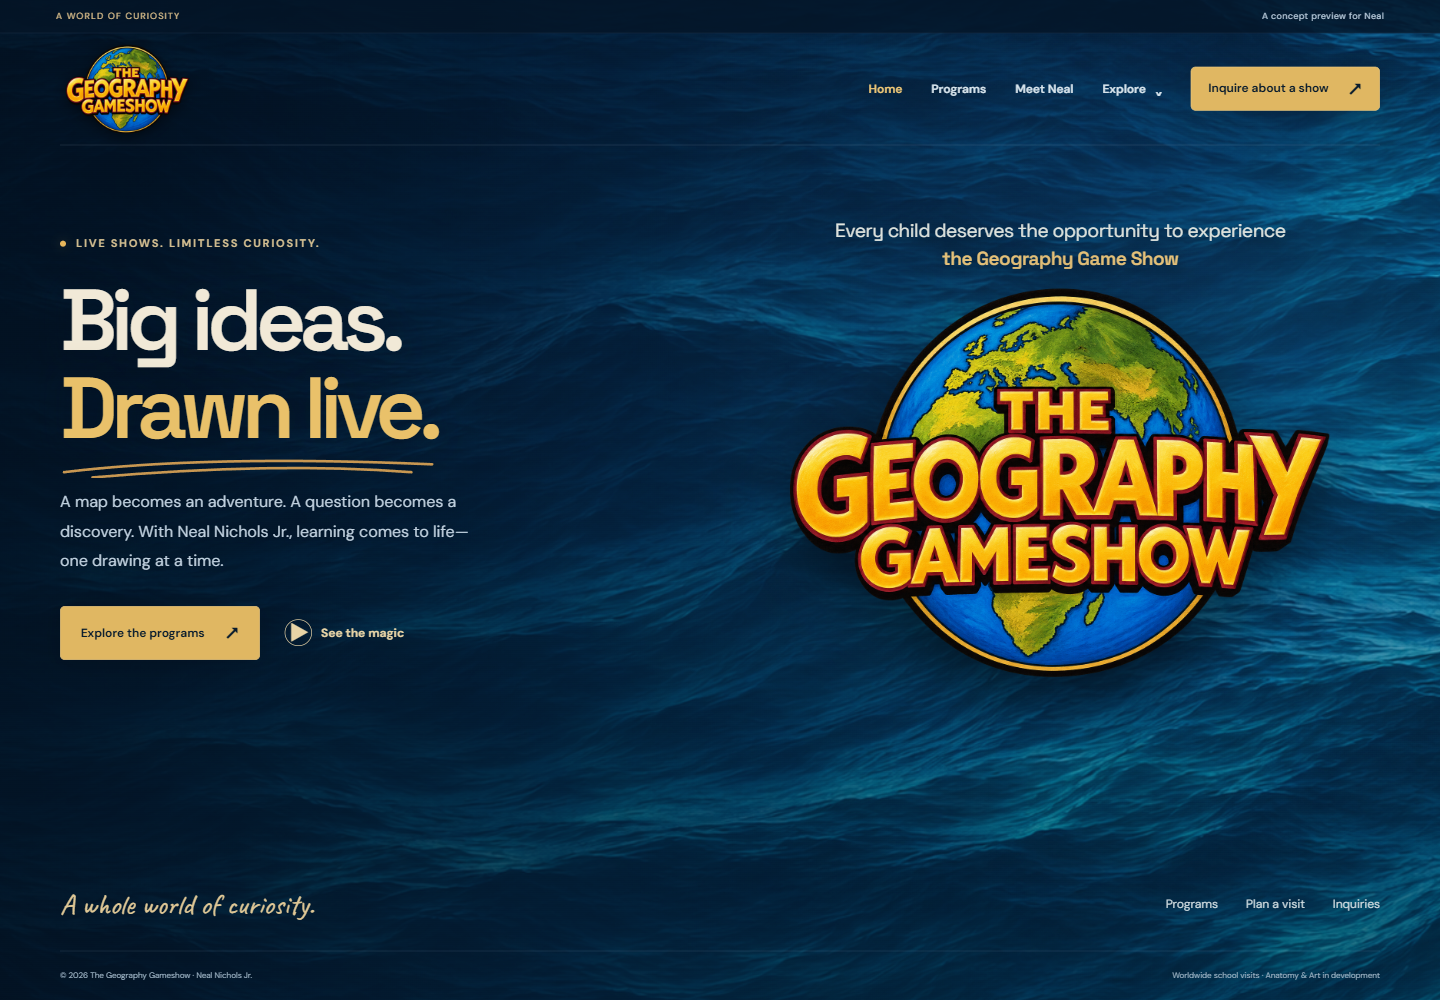
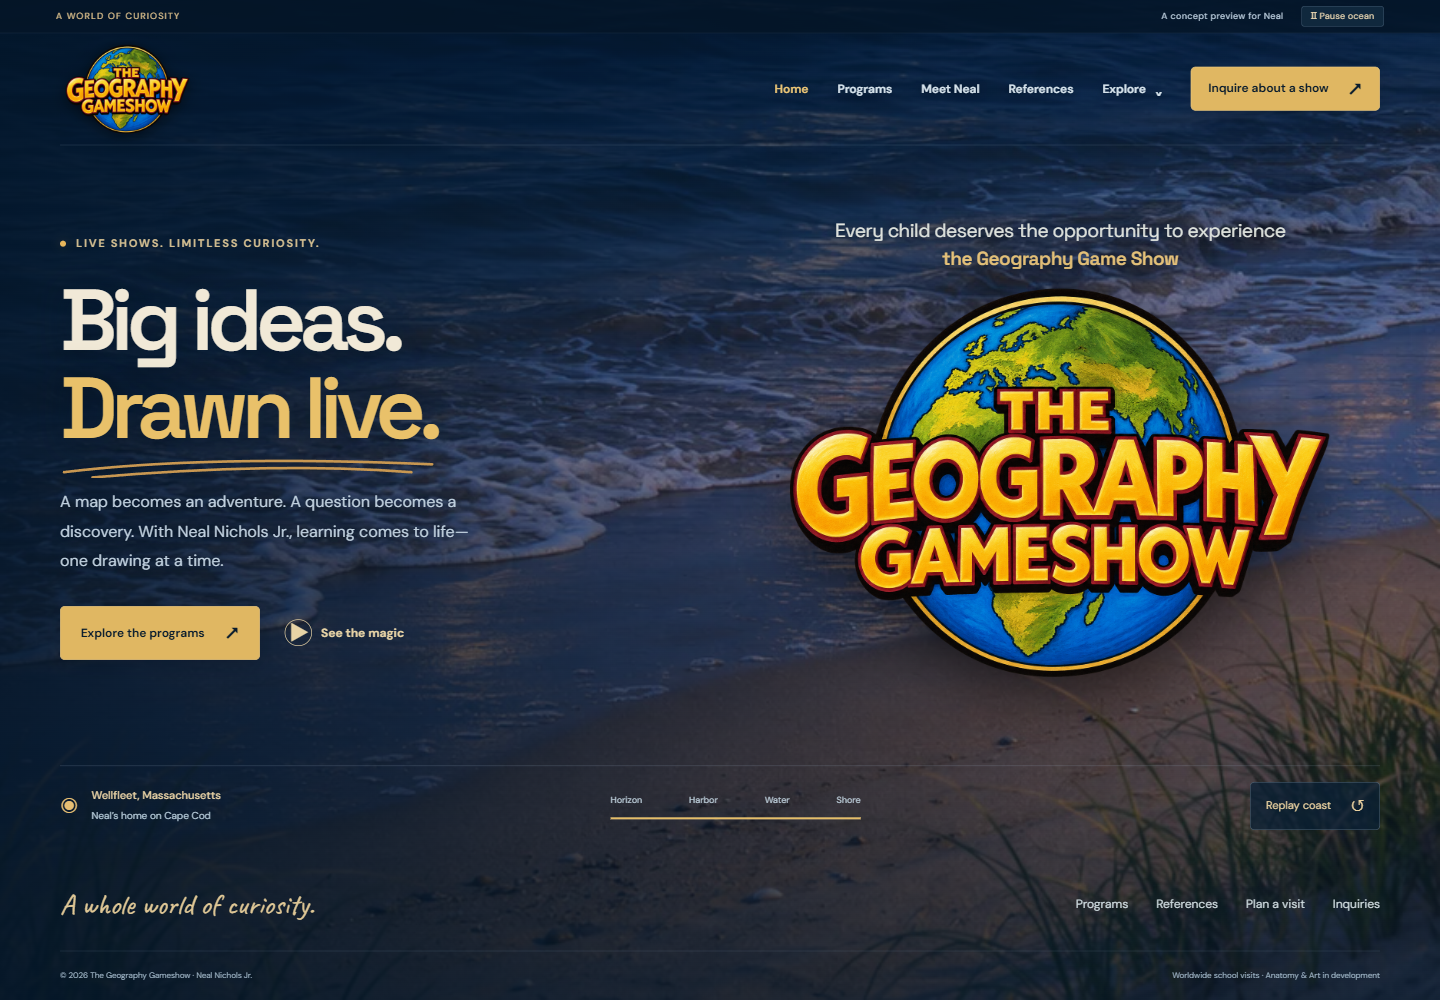
Add automatic Wellfleet horizon-to-beach homepage opening

diff --git a/coast.css b/coast.css
@@ -1,0 +1,67 @@
+/* A continuous downward camera move through one Wellfleet-inspired panorama. */
+.coastal-home { --pan-height: max(200vw, 240svh); position: relative; }
+.coastal-backdrop { position: fixed; inset: 0; z-index: -1; overflow: hidden; pointer-events: none; background: #082443; opacity: 0; transition: opacity .8s; }
+.coast-ready .coastal-backdrop { opacity: 1; }
+.coastal-pan { position: absolute; top: 0; left: 0; display: block; width: 100%; max-width: none; height: var(--pan-height); object-fit: cover; object-position: center; transform: translateY(0); will-change: transform; }
+.coast-ready:not(.coast-done) .coastal-pan { animation: wellfleet-arrival 22s cubic-bezier(.42, 0, .32, 1) both; }
+@keyframes wellfleet-arrival {
+  0%, 6% { transform: translateY(0); }
+  28%, 40% { transform: translateY(calc((100svh - var(--pan-height)) * .19)); }
+  69%, 75% { transform: translateY(calc((100svh - var(--pan-height)) * .62)); }
+  100% { transform: translateY(calc(100svh - var(--pan-height))); }
+}
+.coast-done .coastal-pan { transform: translateY(calc(100svh - var(--pan-height))); will-change: auto; }
+.coastal-shade { position: absolute; inset: 0; background: linear-gradient(180deg, #0316299e 0%, #03162900 30%, #03162900 55%, #031629b0 100%); }
+.coast-done .coastal-shade { background: linear-gradient(90deg, #031629da 0%, #0316297d 43%, #0316294d 75%), linear-gradient(180deg, #03162985, transparent 45%, #031629b0); }
+.coastal-shell .site-header { background: #04172d1a; }
+.coastal-shell .site-header nav { text-shadow: 0 2px 8px #001021; }
+.coastal-shell .site-header .button { text-shadow: none; }
+.coastal-content { opacity: 0; pointer-events: none; transition: opacity .8s; }
+.coast-done .coastal-content, .coastal-content:focus-within { opacity: 1; pointer-events: auto; }
+.coastal-content:focus-within { transition: none; }
+.coastal-welcome { position: absolute; inset: auto 0 50px; padding-bottom: 60px; pointer-events: none; transition: opacity .5s; }
+.coastal-welcome .eyebrow { color: #e4cf9d; font-size: 9px; text-shadow: 0 2px 12px #041426; }
+.coastal-title { margin-top: 17px; color: #f3e8d2; font-family: var(--heading); font-size: clamp(36px, 4.3vw, 62px); font-weight: 500; letter-spacing: -.05em; line-height: 1.07; text-shadow: 0 4px 25px #031629c0; }
+.coastal-title em { font-family: Georgia, serif; font-weight: 400; color: #ecd4a0; }
+.coast-done .coastal-welcome { opacity: 0; visibility: hidden; }
+.coastal-controls { position: relative; display: flex; justify-content: space-between; align-items: center; gap: 24px; padding: 16px 0 20px; border-top: 1px solid #a9bfd63d; }
+.coastal-place { display: flex; align-items: center; gap: 13px; }
+.coastal-marker { color: #e7bf73; font-size: 22px; }
+.coastal-place strong { display: block; font-size: 11px; color: #e8d2a5; font-weight: 500; }
+.coastal-place div > span { display: block; font-size: 10px; color: #b5cad8; margin-top: 3px; }
+.coastal-progress { width: 250px; }
+.coastal-progress > div { display: flex; justify-content: space-between; color: #bdceda; font-size: 9px; }
+.coastal-progress i { height: 2px; display: block; background: #9bb9cb42; margin-top: 10px; overflow: hidden; }
+.coastal-progress b { display: block; width: 100%; height: 100%; background: #e5bd68; transform: scaleX(0); transform-origin: left; }
+.coast-ready:not(.coast-done) .coastal-progress b { animation: coastal-progress 22s linear both; }
+@keyframes coastal-progress { to { transform: scaleX(1); } }
+.coast-done .coastal-progress b { transform: scaleX(1); }
+.coastal-action { min-height: 44px; display: flex; align-items: center; gap: 20px; border: 1px solid #9cb4c45e; border-radius: 4px; padding: 10px 15px; background: #071e35b8; color: #ebd2a0; font-size: 11px; white-space: nowrap; }
+.coastal-action > span { font-size: 17px; }
+.coastal-action:hover { border-color: #e7bf73; background: #153b59; }
+.motion-paused .coastal-home .coastal-pan, .motion-paused .coastal-home .coastal-progress b { animation-play-state: paused; }
+.coast-failed .coastal-backdrop, .coast-failed .coastal-welcome, .coast-failed .coastal-controls { display: none; }
+.coast-failed .coastal-content { opacity: 1; pointer-events: auto; }
+@media (max-width: 900px) {
+  .coastal-progress { width: 190px; }
+  .coastal-welcome { padding-bottom: 75px; }
+}
+@media (max-width: 680px) {
+  .coastal-home:not(.coast-done) .coastal-content { height: calc(100svh - 250px); min-height: 450px; overflow: hidden; }
+  .coastal-controls { gap: 12px; padding-block: 14px; }
+  .coastal-place { gap: 8px; }
+  .coastal-place strong { font-size: 10px; }
+  .coastal-place div > span { font-size: 9px; }
+  .coastal-progress { display: none; }
+  .coastal-action { padding-inline: 11px; font-size: 10px; gap: 12px; }
+  .coastal-welcome { padding-bottom: 65px; }
+  .coastal-title { font-size: clamp(37px, 9vw, 49px); }
+  .coastal-welcome .eyebrow { font-size: 8px; }
+}
+@media (prefers-reduced-motion: reduce) {
+  .coastal-home .coastal-pan { animation: none !important; transform: translateY(calc((100svh - var(--pan-height)) * .19)); will-change: auto; }
+  .coastal-home .coastal-content { opacity: 1; pointer-events: auto; height: auto !important; min-height: 0 !important; overflow: visible !important; transition: none; }
+  .coastal-welcome, .coastal-controls { display: none; }
+  .coastal-shade { background: linear-gradient(90deg, #031629da, #03162990 60%, #03162975); }
+  .coastal-backdrop { transition: none; }
+}

diff --git a/tests/site.spec.js b/tests/site.spec.js
@@ -287,3 +287,49 @@ test('ocean motion runs, pauses, resumes, and respects reduced motion', async ({
   await expect(ocean).toHaveCSS('animation-name', 'none');
   await expect(page.locator('.motion-toggle')).toBeHidden();
 });
+
+test('coastal opening pans, pauses, skips, replays, and remembers completion', async ({ page }) => {
+  await page.emulateMedia({ reducedMotion: 'no-preference' });
+  const coast = page.locator('.coastal-home');
+  const pan = page.locator('.coastal-pan');
+  await expect(coast).toHaveClass(/coast-ready/);
+  await expect(pan).toHaveCSS('animation-name', 'wellfleet-arrival');
+  const start = await pan.evaluate(el => getComputedStyle(el).transform);
+  await pan.evaluate(el => { el.getAnimations()[0].currentTime = 7500; });
+  await expect.poll(() => pan.evaluate(el => getComputedStyle(el).transform)).not.toBe(start);
+
+  await page.getByRole('button', { name: 'Pause ocean animation' }).click();
+  await expect(pan).toHaveCSS('animation-play-state', 'paused');
+  const pausedTime = await pan.evaluate(el => el.getAnimations()[0].currentTime);
+  await page.waitForTimeout(150);
+  const afterPause = await pan.evaluate(el => el.getAnimations()[0].currentTime);
+  expect(Math.abs(afterPause - pausedTime)).toBeLessThan(40);
+  await page.getByRole('button', { name: 'Resume ocean animation' }).click();
+  await expect(pan).toHaveCSS('animation-play-state', 'running');
+
+  await page.getByRole('button', { name: 'Skip intro' }).click();
+  await expect(coast).toHaveClass(/coast-done/);
+  await expect(page.locator('.coastal-content')).toHaveCSS('opacity', '1');
+  await expect(page.getByRole('link', { name: /Explore the programs/ })).toBeVisible();
+  expect(await page.evaluate(() => sessionStorage.getItem('wellfleet-arrival-seen'))).toBe('true');
+  await page.goto('programs.html');
+  await expect(page.locator('.coastal-pan')).toHaveCount(0);
+  await page.goto('index.html');
+  await expect(coast).toHaveClass(/coast-done/);
+  await page.getByRole('button', { name: 'Replay coast' }).click();
+  await expect(coast).not.toHaveClass(/coast-done/);
+  await expect(pan).toHaveCSS('animation-name', 'wellfleet-arrival');
+  await pan.evaluate(el => el.getAnimations()[0].finish());
+  await expect(coast).toHaveClass(/coast-done/);
+  await expect(page.locator('.coastal-content')).toHaveCSS('opacity', '1');
+});
+
+test('coastal opening respects reduced motion and keeps keyboard access immediate', async ({ page }) => {
+  await expect(page.locator('.coastal-pan')).toHaveCSS('animation-name', 'none');
+  await expect(page.locator('.coastal-content')).toHaveCSS('opacity', '1');
+  await expect(page.locator('.coastal-controls')).toBeHidden();
+  await page.emulateMedia({ reducedMotion: 'no-preference' });
+  await page.getByRole('link', { name: /Explore the programs/ }).focus();
+  await expect(page.locator('.coastal-home')).toHaveClass(/coast-done/);
+  await expect(page.locator('.coastal-content')).toHaveCSS('opacity', '1');
+});

diff --git a/index.html b/index.html
@@ -12,6 +12,7 @@
     <link data-trunk rel="css" href="style.css" />
     <link data-trunk rel="css" href="ocean.css" />
     <link data-trunk rel="css" href="pages.css" />
+    <link data-trunk rel="css" href="coast.css" />
     <link data-trunk rel="copy-dir" href="public" />
     <link rel="icon" type="image/svg+xml" href="public/favicon.svg" />
     <link data-trunk rel="rust" data-wasm-opt="z" />

diff --git a/src/coast.rs b/src/coast.rs
@@ -1,0 +1,54 @@
+use leptos::prelude::*;
+
+fn remember_arrival() {
+    if let Some(storage) = web_sys::window().and_then(|w| w.session_storage().ok().flatten()) {
+        let _ = storage.set_item("wellfleet-arrival-seen", "true");
+    }
+}
+
+#[component]
+pub fn CoastalHome(children: Children) -> impl IntoView {
+    let seen = web_sys::window()
+        .and_then(|w| w.session_storage().ok().flatten())
+        .and_then(|s| s.get_item("wellfleet-arrival-seen").ok().flatten())
+        .is_some_and(|value| value == "true");
+    let ready = RwSignal::new(false);
+    let finished = RwSignal::new(seen);
+    let failed = RwSignal::new(false);
+    let replay = RwSignal::new(0_u32);
+    let finish = move || {
+        finished.set(true);
+        remember_arrival();
+    };
+
+    view! {
+        <div class="coastal-home" class:coast-ready=move || ready.get() class:coast-done=move || finished.get() class:coast-failed=move || failed.get()>
+            <div class="coastal-backdrop" aria-hidden="true">
+                <For each=move || vec![replay.get()] key=|run| *run children=move |_| view! {
+                    <img class="coastal-pan" src="public/wellfleet-coast.webp" alt="" width="887" height="1774" fetchpriority="high" decoding="async"
+                        on:load=move |_| ready.set(true)
+                        on:error=move |_| { failed.set(true); finished.set(true); }
+                        on:animationend=move |_| finish()
+                    />
+                }/>
+                <div class="coastal-shade"></div>
+            </div>
+            <div class="coastal-welcome wrap" aria-hidden="true">
+                <p class="eyebrow">"EVERY JOURNEY STARTS SOMEWHERE"</p>
+                <p class="coastal-title">"From Wellfleet,"<br/><em>"to the world."</em></p>
+            </div>
+            <div class="coastal-content" on:focusin=move |_| finish()>{children()}</div>
+            <div class="coastal-controls wrap">
+                <div class="coastal-place"><span class="coastal-marker" aria-hidden="true">"◉"</span><div><strong>"Wellfleet, Massachusetts"</strong><span>"Neal’s home on Cape Cod"</span></div></div>
+                <div class="coastal-progress" aria-hidden="true"><div><span>"Horizon"</span><span>"Harbor"</span><span>"Water"</span><span>"Shore"</span></div><i><b></b></i></div>
+                <button type="button" class="coastal-action" on:click=move |_| {
+                    if finished.get() {
+                        ready.set(false);
+                        finished.set(false);
+                        replay.update(|run| *run += 1);
+                    } else { finish(); }
+                }>{move || if finished.get() { "Replay coast" } else { "Skip intro" }}<span aria-hidden="true">{move || if finished.get() { "↺" } else { "↗" }}</span></button>
+            </div>
+        </div>
+    }
+}

diff --git a/src/main.rs b/src/main.rs
@@ -1,5 +1,6 @@
 use leptos::prelude::*;
 
+mod coast;
 mod inquiry;
 mod pages;
 mod planning;
@@ -70,7 +71,7 @@ fn App() -> impl IntoView {
         }
     };
     view! {
-        <div class="site-shell" class:motion-paused=move || motion_paused.get()>
+        <div class="site-shell" class:motion-paused=move || motion_paused.get() class:coastal-shell=page == Page::Home>
             <div class="ocean-backdrop" aria-hidden="true"><div class="ocean-texture"></div><div class="ocean-reflection"></div><div class="ocean-light"></div></div>
             <a class="skip-link" href="#main">"Skip to content"</a>
             <div class="preview-bar"><span>"A WORLD OF CURIOSITY"</span><span>"A concept preview for Neal"<button class="motion-toggle" aria-pressed=move || motion_paused.get().to_string() aria-label=move || if motion_paused.get() { "Resume ocean animation" } else { "Pause ocean animation" } on:click=toggle_motion>{move || if motion_paused.get() { "▶ Resume ocean" } else { "Ⅱ Pause ocean" }}</button></span></div>

diff --git a/src/pages.rs b/src/pages.rs
@@ -3,6 +3,7 @@ use leptos::prelude::*;
 #[component]
 pub fn Home() -> impl IntoView {
     view! {
+    <crate::coast::CoastalHome>
     <section class="hero wrap" aria-labelledby="hero-title">
                     <div class="hero-copy">
                         <p class="eyebrow"><span class="live-dot"></span>"LIVE SHOWS. LIMITLESS CURIOSITY."</p>
@@ -16,6 +17,7 @@ pub fn Home() -> impl IntoView {
                         <img class="hero-brand-logo" src="public/geography-gameshow-logo.webp" alt="The Geography Gameshow: gold lettering across a globe with cobalt-blue oceans and earthy green continents" fetchpriority="high" width="1536" height="1024"/>
                     </div>
                 </section>
+    </crate::coast::CoastalHome>
         }
 }
 

diff --git a/docs/COAST-PROMPT.md b/docs/COAST-PROMPT.md
@@ -1,0 +1,12 @@
+# Wellfleet coastal opening
+
+Created with the built-in image generation tool for the requested homepage pan. This is a photographic-style artistic interpretation of Wellfleet, not a documentary photograph or an exact reconstruction of a particular building or sign. Reference browsing informed the working harbor, timber docks, and cedar-shingled architectural character; no third-party photograph was copied into this image or site.
+
+- Original selected asset: `public/wellfleet-coast.png` (887 × 1774).
+- Website asset: `public/wellfleet-coast.webp`, quality 88 WebP encoding at the same dimensions (approximately 300 KB).
+- The webpage pans the entire image continuously, from the sky and waterfront through the cobalt water to the sand. The physical sign spells **WELLFLEET**, with **MASSACHUSETTS** beneath it.
+- A 22-second opening runs once per browser session. Skip and replay controls are provided; the existing ocean-motion control pauses the pan. Reduced-motion visitors see a still scene and immediate homepage content. Keyboard focus on the main content also completes the opening immediately.
+
+## Final generation prompt
+
+Use case: photorealistic-natural. Asset type: a single tall cinematic coastal panorama for a website background that will pan vertically DOWN through the image. Generate a high-resolution PORTRAIT image, 1536 x 3072, aspect ratio 1:2. It must be ONE spatially continuous photographic-style scene, not panels, not a collage, not a website mockup. Subject: an artistic interpretation of Wellfleet Harbor, Massachusetts, on Cape Cod, viewed from the bay toward the waterfront at rich cobalt blue hour. Composition from TOP to BOTTOM is essential: top 0–20% has a wide quiet dark-blue sky and low distant coastal horizon; 20–38% reveals the small working waterfront, weathered cedar-shingled Cape Cod harbor buildings, timber pilings and modest fishing boats, with a prominent authentic-looking wooden harbor sign facing the water near the HORIZONTAL CENTER, its ivory capital letters spelling exactly 'WELLFLEET', with a smaller line 'MASSACHUSETTS'. The sign must be beautifully readable and occupy roughly the central 30 percent of the image width; no invented commercial brand names. Below the waterfront, 38–75% is an uninterrupted, expansive stretch of deep cobalt harbor water, textured with gentle silver-blue ripples and reflections, calm and spacious. Bottom 75–100% approaches the near shoreline: thin curved seafoam edges washing onto a warm muted ochre sand beach, wet sand reflecting deep blue twilight, a few natural dune grasses at the extreme lower corners. Maintain coherent photographic perspective from a slightly elevated near-shore vantage looking across the bay; the long foreground water and sand provide space for a downward camera tilt. Restrained warm light in a few waterfront windows, natural earth tones in timber and sand, overwhelmingly beautiful cobalt blue and midnight navy water and sky. Sophisticated, atmospheric, inviting, subtle natural film grain, fine tactile detail. No white background, no tropical plants, no cliffs, no large city, no large crowds, no people close to camera, no typography floating on the image except the physical WELLFLEET / MASSACHUSETTS sign. Keep the sign and key harbor buildings centered so they survive a narrow mobile crop. No giant bright sun, no blinding white highlights. The image is a scenic interpretation, not a literal documentary photograph. Preserve full vertical landscape from sky to beach.

diff --git a/docs/ASSETS.md b/docs/ASSETS.md
@@ -24,6 +24,10 @@ The two `geography-gameshow-logo*.png` files are AI-assisted recreations of the 
 
 Prompt: Create a premium cinematic ocean texture for the full-screen background of an educational performance website. Wide landscape composition, 16:9. Directly overhead aerial view of deep open ocean at blue hour, only water from edge to edge, absolutely no horizon, sky, land, boats, people, objects, text, or logos. Rich true cobalt-blue water blending into very dark midnight-navy depths. Elegant long flowing current patterns and gentle natural wave ridges, with subtle turquoise/cobalt reflected light catching the crests. Photorealistic, tactile, refined, atmospheric. Keep the left third and upper edge darker and calmer, with the most beautiful luminous ripples concentrated through the center-right and lower-right. Avoid bright white foam, white highlights, glitter, storm waves, excessive contrast, black crushed shadows, and generic gradient appearance. The image should feel like an immersive living ocean while being subdued enough to sit behind readable gold and ivory website typography. Fine natural water detail, flowing rhythmic movement implied in the water, luxurious and serene. No vignette frame. High resolution landscape background asset.
 
+## Wellfleet coastal opening
+
+`public/wellfleet-coast.png` is a new photographic-style coastal interpretation created with the built-in image generation tool. The website loads `public/wellfleet-coast.webp` (887 × 1774, quality 88, approximately 300 KB) for a continuous homepage camera pan from the horizon and harbor to the water and beach. The physical sign in the artwork reads WELLFLEET / MASSACHUSETTS. Full prompt, provenance, and motion behavior are in [COAST-PROMPT.md](COAST-PROMPT.md).
+
 ## Fonts
 
 DM Sans, Space Grotesk, and Caveat are downloaded from Google Fonts and served locally, with OFL licenses included alongside the font files. `scripts/download-fonts.py` refreshes the Latin subsets and licenses.

diff --git a/README.md b/README.md
@@ -9,6 +9,7 @@
 ## What is here
 
 - A responsive dark-ocean design with a custom photographic water backdrop, drifting currents, warm gold accents, earthy land tones, and custom illustrations. Ocean motion can be paused and respects reduced-motion preferences.
+- A compact homepage opening pans from a Wellfleet-inspired horizon and waterfront sign through cobalt water to the beach. It plays once per session with pause, skip, and replay controls; reduced-motion visitors see a still scene and immediate content. Artwork and its generation prompt are documented in [docs/COAST-PROMPT.md](docs/COAST-PROMPT.md).
 - Neal’s actual classroom photos and artwork from his existing website.
 - A compact homepage and a Programs hub linking to separate Geography, Anatomy, and Art pages.
 - Separate pages for Meet Neal, the show in action, the challenge, school visit information, and inquiries.
@@ -47,6 +48,7 @@ The output is `dist/`. A Trunk post-build hook emits eleven HTML entry files wit
 | --- | --- |
 | `src/main.rs` | Shared navigation, page selection, ocean motion preference |
 | `src/pages.rs` | Compact homepage, show in action, and Meet Neal |
+| `src/coast.rs`, `coast.css` | Wellfleet homepage opening, camera pan, and motion controls |
 | `src/programs.rs` | Programs hub and separate program detail pages |
 | `src/planning.rs` | School visit information from the supplied document |
 | `src/inquiry.rs` | International inquiry fields and local preview |
